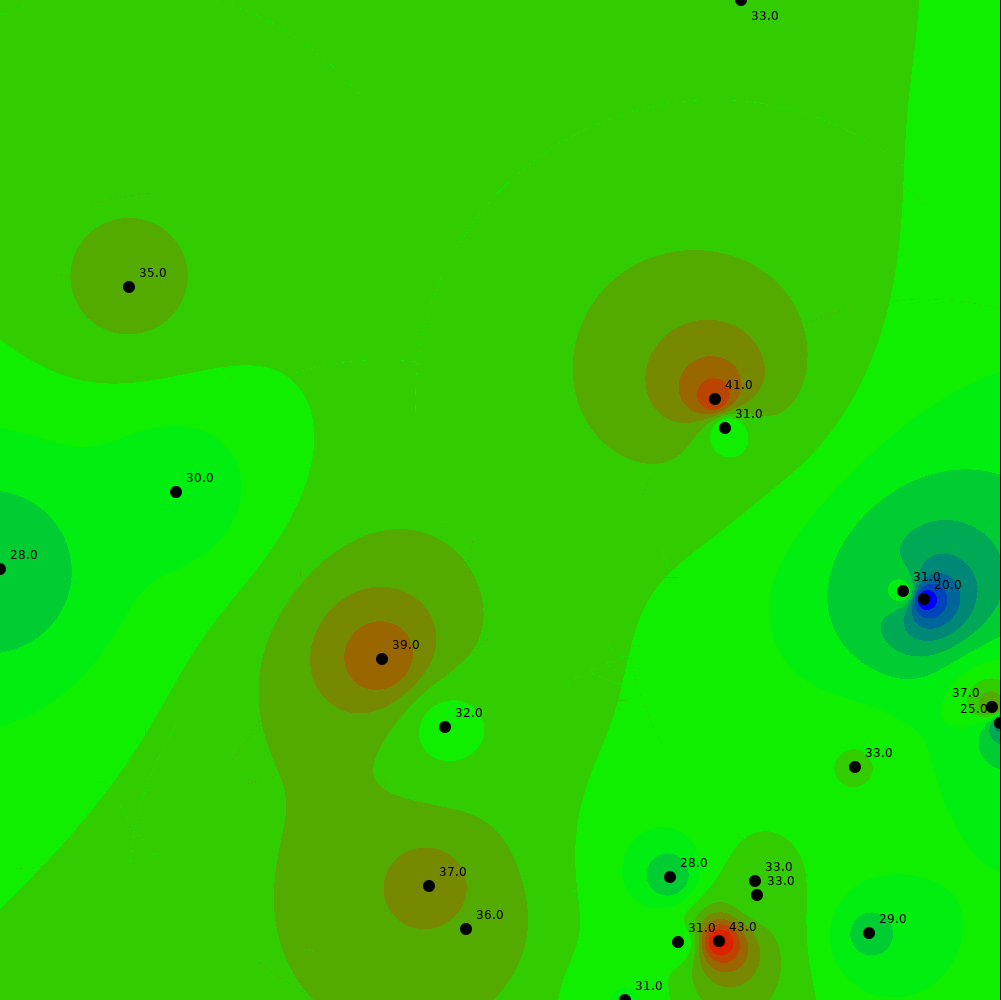
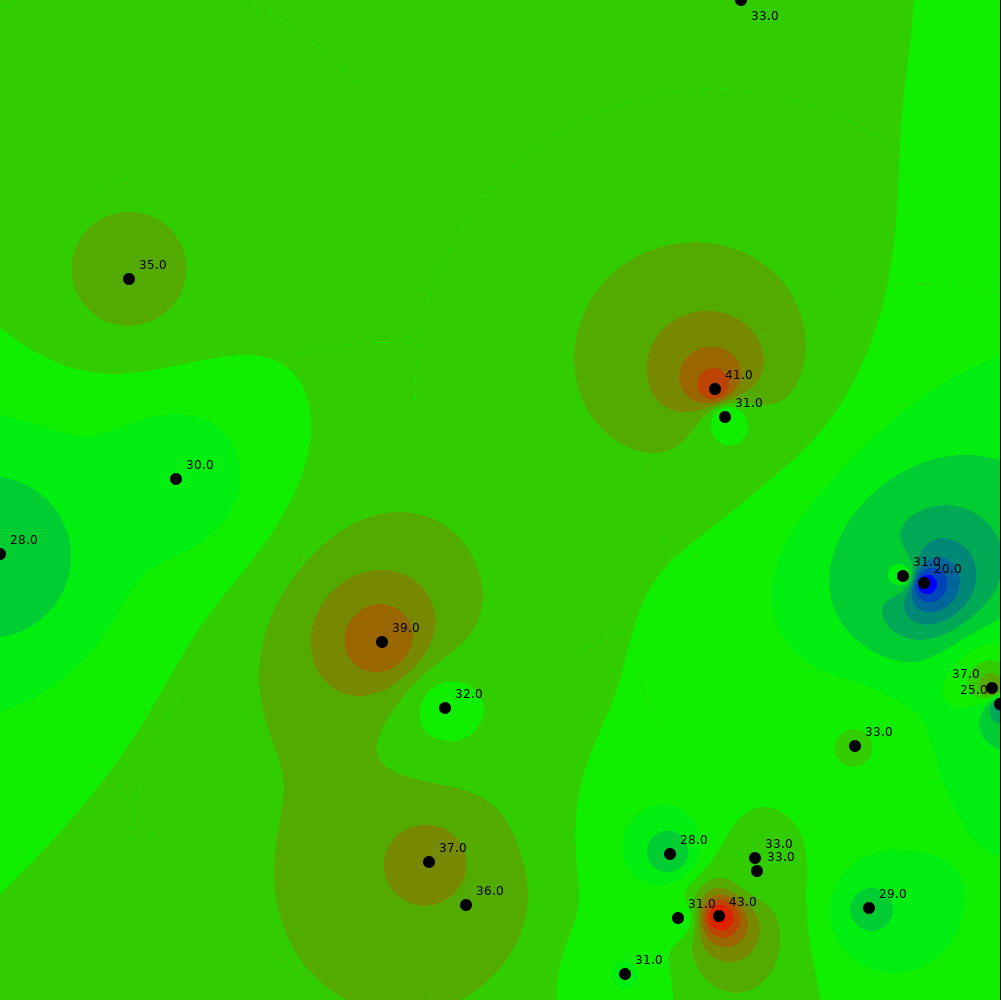
Pisteiden skaalaamista paranneltu Checkstyle lisätty

diff --git a/triangle-interpolator/src/main/java/utils/MyMath.java b/triangle-interpolator/src/main/java/utils/MyMath.java
@@ -3,8 +3,7 @@ package utils;
 import geometry.Point;
 
 /**
- *
- * @author lroni
+ * Math functions
  */
 public class MyMath {
 
@@ -18,6 +17,13 @@ public class MyMath {
         throw new UnsupportedOperationException();
     }
 
+    /**
+     * Returns maximum of given two values
+     *
+     * @param a value 1
+     * @param b value 2
+     * @return maximum of a and b
+     */
     public static double max(double a, double b) {
         if (a > b) {
             return a;
@@ -25,6 +31,13 @@ public class MyMath {
         return b;
     }
 
+    /**
+     * Returns minimum of given two values
+     *
+     * @param a value 1
+     * @param b value 2
+     * @return minimum of a and b
+     */
     public static double min(double a, double b) {
         if (a < b) {
             return a;
@@ -155,7 +168,7 @@ public class MyMath {
         if ((width == 0 && height == 0) || points.size() == 0) {
             return points;
         }
-        
+
         double max_x = -INF;
         double max_y = -INF;
         double min_x = INF;
@@ -171,16 +184,18 @@ public class MyMath {
             min_y = (p.getY() < min_y) ? p.getY() : min_y;
         }
 
-        //Scaling factors
-        double Sx = width / (max_x - min_x);
-        double Sy = height / (max_y - min_y);
+        //Original width and height
+        double width2 = max_x - min_x;
+        double height2 = max_y - min_y;
+        
+        double scalingFactor = MyMath.min((width/width2), (height/height2));
 
         MyArrayList<Point> output = new MyArrayList<>();
         for (int i = 0; i < points.size(); i++) {
             Point p = points.get(i);
 
-            double x = (p.getX() - min_x) * Sx;
-            double y = (p.getY() - min_y) * Sy;
+            double x = (p.getX() - min_x) * scalingFactor;
+            double y = (p.getY() - min_y) * scalingFactor;
 
             Point scaledPoint = new Point(x, y, p.getWeight());
             output.add(scaledPoint);

diff --git a/triangle-interpolator/src/main/java/utils/CsvParse.java b/triangle-interpolator/src/main/java/utils/CsvParse.java
@@ -1,15 +1,10 @@
 package utils;
 
 import geometry.Point;
-import java.io.FileNotFoundException;
-import java.util.Arrays;
-import java.util.logging.Level;
-import java.util.logging.Logger;
 
 /**
  * A csv-file parser to parse {@link geometry.Point} from csv-file.
  *
- * @author lroni
  */
 public class CsvParse {
 
@@ -42,19 +37,6 @@ public class CsvParse {
         }
 
         return linesFromFile.size();
-    }
-
-    private void readFile() {
-        if (fileName == null || fileName.trim().isEmpty()) {
-            return;
-        }
-
-        try {
-            linesFromFile = io.Reader.readRows(fileName);
-        } catch (FileNotFoundException ex) {
-            ex.printStackTrace();
-            linesFromFile = new MyArrayList<>();
-        }
     }
 
     /**
@@ -166,6 +148,19 @@ public class CsvParse {
         }
 
         return output;
+    }
+
+    private void readFile() {
+        if (fileName == null || fileName.trim().isEmpty()) {
+            return;
+        }
+
+        try {
+            linesFromFile = io.Reader.readRows(fileName);
+        } catch (Exception ex) {
+            ex.printStackTrace();
+            linesFromFile = new MyArrayList<>();
+        }
     }
 
     /**

diff --git a/triangle-interpolator/src/test/java/utils/CsvParseTest.java b/triangle-interpolator/src/test/java/utils/CsvParseTest.java
@@ -155,10 +155,10 @@ public class CsvParseTest {
         assertEquals(5, parser.rowsInFile());
         parser.setFileName(file2);
         assertEquals(101, parser.rowsInFile());
-        
+
         parser.setFileName("FileNotFound");
         assertEquals(0, parser.rowsInFile());
-        
+
         parser.setFileName(null);
         assertEquals(0, parser.rowsInFile());
     }

diff --git a/triangle-interpolator/src/main/java/ui/UI.java b/triangle-interpolator/src/main/java/ui/UI.java
@@ -8,7 +8,6 @@ import static io.Writer.writeToGrayscaleImage;
 import static io.Writer.writeTrianglesToImage;
 import java.io.File;
 import java.io.FilenameFilter;
-import java.util.Arrays;
 import java.util.Scanner;
 import utils.CsvParse;
 import utils.MyArrayList;

diff --git a/triangle-interpolator/src/main/java/geometry/Triangle.java b/triangle-interpolator/src/main/java/geometry/Triangle.java
@@ -7,7 +7,6 @@ import utils.MyArrayList;
  * Represents a triangle in 2D plane
  *
  * @see geometry.Point
- * @author lroni
  */
 public class Triangle {
 
